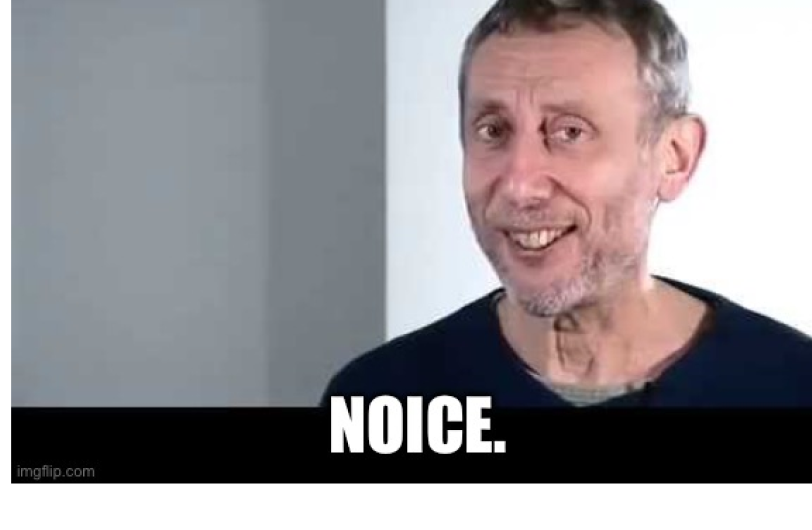
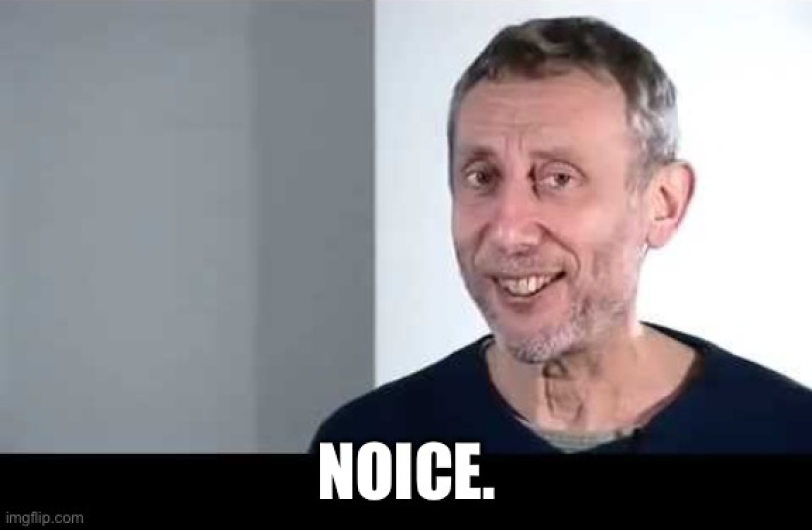
created the work page

diff --git a/src/components/agency/Testimonials.tsx b/src/components/agency/Testimonials.tsx
@@ -1,0 +1,151 @@
+"use client";
+
+import { useRef, useState } from "react";
+import { useGSAP } from "@gsap/react";
+import gsap from "gsap";
+import Image from "next/image";
+
+const testimonials = [
+  {
+    quote:
+      "It's always a pleasure working with RITGB. The team does an excellent job of taking our designs and turning them into fully functional websites that look and perform beautifully. Their skill, responsiveness, and attention to detail make every project a smooth and enjoyable journey.",
+    name: "-Anurag Anupam",
+    color: "#FA435B",
+  },
+  {
+    quote:
+      "RITGB completely transformed our online presence. From branding to the final build, everything felt thought through. Communication was smooth and the end result exceeded our expectations.",
+    name: "-Priya Sharma",
+    color: "#5ECFC9",
+  },
+  {
+    quote:
+      "Working with this team was refreshing. No fluff, no buzzwords — just solid execution and a final product that actually works the way it's supposed to.",
+    name: "-Rohan Mehta",
+    color: "#FBC7E0",
+  },
+];
+
+export default function Testimonials() {
+  const containerRef = useRef<HTMLDivElement>(null);
+  const cardRefs = useRef<(HTMLDivElement | null)[]>([]);
+  const [activeIndex, setActiveIndex] = useState(0);
+
+  useGSAP(
+    () => {
+      cardRefs.current.forEach((card, i) => {
+        if (!card) return;
+        gsap.set(card, {
+          x: i * 16,
+          y: i * -16,
+          scale: 1 - i * 0.05,
+          zIndex: testimonials.length - i,
+        });
+      });
+    },
+    { scope: containerRef },
+  );
+
+  const handleNext = () => {
+    const current = cardRefs.current[activeIndex];
+    if (!current) return;
+
+    gsap.to(current, {
+      x: "150%",
+      rotate: 8,
+      opacity: 0,
+      duration: 0.5,
+      ease: "power2.in",
+      onComplete: () => {
+        current.style.display = "none";
+      },
+    });
+
+    for (let i = activeIndex + 1; i < testimonials.length; i++) {
+      const card = cardRefs.current[i];
+      if (!card) continue;
+      const newPos = i - (activeIndex + 1);
+
+      gsap.to(card, {
+        x: newPos * 16,
+        y: newPos * -16,
+        scale: 1 - newPos * 0.05,
+        zIndex: testimonials.length - newPos,
+        duration: 0.5,
+        ease: "power2.out",
+      });
+    }
+
+    setActiveIndex((prev) => prev + 1);
+  };
+
+  return (
+    <section className="w-full bg-black py-24 md:py-32 px-6 md:px-16 overflow-hidden">
+      <div className="grid md:grid-cols-2 gap-12 items-center">
+        {/* Left side */}
+        <div>
+          <p className="text-xs font-medium uppercase tracking-widest text-white/60 mb-8">
+            Testimonials Section
+          </p>
+
+          <h2 className="font-(family-name:--font-right-grotesk) text-white text-[10vw] md:text-[5vw] font-black uppercase leading-[1.05] tracking-[-0.03em] mb-8">
+            Things Clients Said Instead Of
+            <br />
+            &ldquo;Looks Nice&rdquo;
+          </h2>
+
+          <div className="relative w-48 md:w-64">
+            <Image
+              src="/images/noice.png"
+              alt="Noice"
+              width={300}
+              height={250}
+              className="w-full h-auto"
+            />
+          </div>
+        </div>
+
+        {/* Right side - card stack */}
+        <div
+          ref={containerRef}
+          className="relative h-100 md:h-112.5 flex items-center justify-center"
+        >
+          {testimonials.map((t, i) => (
+            <div
+              key={i}
+              ref={(el) => {
+                cardRefs.current[i] = el;
+              }}
+              className="absolute w-full max-w-md rounded-tl-3xl p-8 md:p-10 flex flex-col justify-between"
+              style={{ backgroundColor: t.color, height: "420px" }}
+            >
+              <span className="font-(family-name:--font-right-grotesk) text-black text-6xl md:text-7xl font-black leading-none -mb-4">
+                &ldquo;
+              </span>
+
+              <p className="font-[Arial] text-black text-sm md:text-base leading-relaxed pl-6 md:pl-8 -mt-4">
+                {t.quote}
+              </p>
+
+              <div className="flex items-center justify-between">
+                <p className="text-black font-bold text-lg">{t.name}</p>
+
+                {i < testimonials.length - 1 && (
+                  <button
+                    onClick={handleNext}
+                    className="w-12 h-12 rounded-full  border-black flex items-center justify-center hover:bg-black hover:text-white transition-colors duration-300 cursor-pointer shrink-0 font-bold border-2"
+                    style={{
+                      visibility: i === activeIndex ? "visible" : "hidden",
+                    }}
+                  >
+                    →
+                  </button>
+                )}
+              </div>
+            </div>
+          ))}
+        </div>
+      </div>
+    </section>
+  );
+}

diff --git a/src/components/work/ProudOf.tsx b/src/components/work/ProudOf.tsx
@@ -1,0 +1,95 @@
+"use client";
+
+import Image from "next/image";
+
+const projects = [
+  {
+    title: "Redesign Project: Fitness Tracker App Revamp",
+    description:
+      "Elevating the user experience of a renowned fitness tracker app through a strategic.",
+    link: "www.google.com",
+    image: "/images/iphone.png",
+  },
+  {
+    title: "Internship Project: Social Dining App Design",
+    description:
+      "Designing a mobile app to connect food enthusiasts through shared dining experiences,",
+    link: "www.google.com",
+    image: "/images/iphone2.png",
+  },
+  {
+    title: "Redesign Project: Fitness Tracker App Revamp",
+    description:
+      "Elevating the user experience of a renowned fitness tracker app through a strategic.",
+    link: "www.google.com",
+    image: "/images/iphone.png",
+  },
+  {
+    title: "Internship Project: Social Dining App Design",
+    description:
+      "Designing a mobile app to connect food enthusiasts through shared dining experiences,",
+    link: "www.google.com",
+    image: "/images/iphone2.png",
+  },
+  {
+    title: "Redesign Project: Fitness Tracker App Revamp",
+    description:
+      "Elevating the user experience of a renowned fitness tracker app through a strategic.",
+    link: "www.google.com",
+    image: "/images/iphone.png",
+  },
+  {
+    title: "Internship Project: Social Dining App Design",
+    description:
+      "Designing a mobile app to connect food enthusiasts through shared dining experiences,",
+    link: "www.google.com",
+    image: "/images/iphone2.png",
+  },
+];
+
+export default function ProudOf() {
+  return (
+    <section className="w-full bg-[#F5F5F5] py-16 md:py-24 px-6 md:px-16">
+      <p className="text-xs font-medium uppercase tracking-widest mb-12">
+        Our Team Section
+      </p>
+
+      <h2 className="font-(family-name:--font-right-grotesk) text-[10vw] md:text-[5vw] font-black uppercase leading-none tracking-[-0.03em] mb-16">
+        Stuff We&apos;re Proud Of
+      </h2>
+
+      <div className="grid md:grid-cols-2 gap-12 md:gap-8">
+        {projects.map((project, i) => (
+          <div key={i}>
+            <div className="relative w-full aspect-[4/3] overflow-hidden mb-6">
+              <Image
+                src={project.image}
+                alt={project.title}
+                fill
+                sizes="(max-width: 768px) 100vw, 50vw"
+                className="object-cover transition-transform duration-500 ease-out hover:scale-110"
+              />
+            </div>
+
+            <h3 className="text-2xl md:text-3xl font-bold mb-4">
+              {project.title}
+            </h3>
+
+            <p className="text-black/70 text-sm md:text-base mb-4 max-w-md">
+              {project.description}
+            </p>
+
+            <a
+              href={`https://${project.link}`}
+              target="_blank"
+              rel="noopener noreferrer"
+              className="font-bold text-sm md:text-base hover:underline"
+            >
+              Website link: {project.link} →
+            </a>
+          </div>
+        ))}
+      </div>
+    </section>
+  );
+}

diff --git a/src/app/work/page.tsx b/src/app/work/page.tsx
@@ -1,9 +1,24 @@
+import Testimonials from "@/components/agency/Testimonials";
+
+import Footer from "@/components/Footer";
+import CaseStudy from "@/components/sections/CaseStudy";
+import Contact from "@/components/sections/Contact";
+import Industry from "@/components/sections/Industry";
+import ProudOf from "@/components/work/ProudOf";
+import ShowReel from "@/components/work/ShowReel";
 import WorkHero from "@/components/work/WorkIntro";
 
 export default function WorkPage() {
   return (
     <>
       <WorkHero />
+      <ShowReel />
+      <ProudOf />
+      <Industry />
+      <CaseStudy />
+      <Testimonials />
+      <Contact />
+      <Footer />
     </>
   );
 }

diff --git a/src/app/agency/page.tsx b/src/app/agency/page.tsx
@@ -4,6 +4,7 @@ import AgencyMarquee from "@/components/agency/AgencyMarquee";
 import AgencyMission from "@/components/agency/AgencyMission";
 import ProcessSection from "@/components/agency/ProcessSection";
 import TeamSection from "@/components/agency/TeamSection";
+import Testimonials from "@/components/agency/Testimonials";
 import Footer from "@/components/Footer";
 import CaseStudy from "@/components/sections/CaseStudy";
 import Contact from "@/components/sections/Contact";
@@ -20,6 +21,7 @@ export default function AgencyPage() {
       <ProcessSection />
       <CaseStudy />
       <Industry />
+      <Testimonials />
       <Contact />
       <Footer />
     </>

diff --git a/src/components/Footer.tsx b/src/components/Footer.tsx
@@ -5,11 +5,11 @@ export default function Footer() {
         <div className="flex flex-col md:flex-row justify-between items-start md:items-center gap-6">
           {/* Left */}
           <p className="font-[Arial] text-sm text-black uppercase">
-            {new Date().getFullYear()} &copy; — RITGB
+            {new Date().getFullYear() + " "} &copy; — RITGB
           </p>
 
           {/* Right */}
-          <div className="flex gap-6 md:gap-8">
+          <div className="font-[Arial] flex gap-6 md:gap-8">
             <a
               href="https://github.com"
               target="_blank"

diff --git a/src/components/layout/Menu.tsx b/src/components/layout/Menu.tsx
@@ -65,7 +65,7 @@ export default function Menu({ isOpen, onClose }: MenuProps) {
       {/* Close button */}
       <button
         onClick={onClose}
-        className="absolute top-6 right-8 md:right-27.75 text-white text-sm tracking-widest uppercase hover:opacity-60 transition-opacity cursor-pointer"
+        className="font-[Arial] absolute top-6 right-8 md:right-27.75 text-white text-sm tracking-widest uppercase hover:opacity-60 transition-opacity cursor-pointer"
       >
         Close
       </button>

diff --git a/src/components/work/ShowReel.tsx b/src/components/work/ShowReel.tsx
@@ -1,0 +1,13 @@
+"use client";
+
+export default function ShowReel() {
+  return (
+    <section className="w-full bg-[#F5F5F5] py-24 md:py-32 flex items-center justify-center">
+      <div className="w-64 h-64 md:w-72 md:h-72 rounded-full bg-[#E5E7EB] flex items-center justify-center">
+        <span className="font-(family-name:--font-right-grotesk) text-lg md:text-xl font-black uppercase tracking-wide">
+          Show Reel
+        </span>
+      </div>
+    </section>
+  );
+}

diff --git a/src/app/page.tsx b/src/app/page.tsx
@@ -1,3 +1,4 @@
+import Testimonials from "@/components/agency/Testimonials";
 import Footer from "@/components/Footer";
 import Navbar from "@/components/layout/Navbar";
 import AboutImage from "@/components/sections/AboutImage";
@@ -26,6 +27,7 @@ export default function Home() {
         <Projects />
         <CaseStudy />
         <Industry />
+        <Testimonials />
         <Contact />
         <Footer />
       </div>
